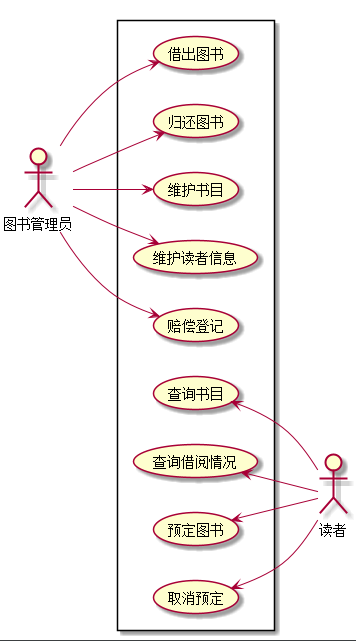
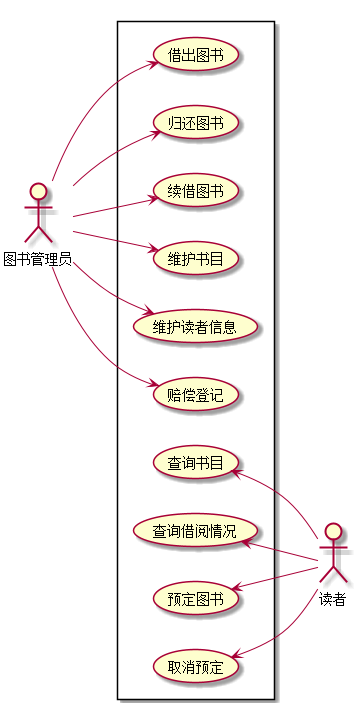
实验二

diff --git a/test2/续借图书.md b/test2/续借图书.md
@@ -1,0 +1,56 @@
+# 续借图书用例表 |[返回](./README.md)
+
+<table>
+<caption>续借图书用例规约</caption>
+<tr>
+    <td>用例名称</td><td>续借图书</td>
+</tr>
+<tr>
+    <td>参与者</td><td>图书管理员（主要参与者）、读者（次要参与者）</td>
+</tr>
+<tr>
+    <td>前置条件</td><td>图书管理员已被授权并已登录系统</td>
+</tr>
+<tr>
+    <td>后置条件</td><td>更新读者借书纪录</td>
+</tr>
+<tr>
+    <td colspan="2">主事件流</td>
+</tr>
+<tr>
+    <td>参与者动作</td>
+    <td>系统行为</td>
+</tr>
+<tr>
+    <td>
+        1.图书管理员将读者借书卡提供给系统<br><br>
+        3.图书管理员将读者续借图书输入系统
+    </td>
+    <td><br>
+        2.系统验证读者身份和借书条件<br><br>
+        4.系统更新借书信息<br>
+        5.重复3~4，直到图书管理员确认全部图书登记完毕<br>
+        6.系统打印续借清单，交易成功完成
+    </td>
+</tr>
+<tr>
+    <td colspan="2">备选时间流</td>
+</tr>
+<tr>
+<td colspan="2">
+    2a.非法读者<br>
+    &nbsp;&nbsp;&nbsp;&nbsp;1.系统提示错误并拒绝接受输入<br>
+    2b.读者续借次数已达限额<br>
+    &nbsp;&nbsp;&nbsp;&nbsp;1.系统提示错误并拒绝接受输入<br>
+</td>
+</tr>
+<tr>
+    <td colspan="2">业务规则</td>
+</tr>
+<tr>
+    <td colspan="2">
+        1.图书管理员必须在系统中存在信息
+        2.图书在书库中存在
+    </td>
+</tr>
+</table>

diff --git a/test2/README.md b/test2/README.md
@@ -10,6 +10,7 @@ left to right direction
 rectangle {
   Admin --> (借出图书)
   Admin --> (归还图书)
+  Admin --> (续借图书)
   Admin --> (维护书目)
   Admin --> (维护读者信息)
   Admin --> (赔偿登记)
@@ -27,9 +28,11 @@ rectangle {
 
 ### 1.借出图书用例表 | [前往](./借出图书.md)
 ### 2.归还图书用例表 | [前往](./归还图书.md)
-### 3.维护书目用例表 | [前往](./维护书目.md)
-### 4.维护读者信息用例表 | [前往](./维护读者信息.md)
-### 5.查询书目用例表 | [前往](./查询书目.md)
-### 6.查询借阅情况用例表 | [前往](./查询借阅情况.md)
-### 7.预定图书用例表 | [前往](./预定图书.md)
-### 8.取消预定用例表 | [前往](./取消预定.md)
+### 3.续借图书用例表 | [前往](./续借图书.md)
+### 4.维护书目用例表 | [前往](./维护书目.md)
+### 5.维护读者信息用例表 | [前往](./维护读者信息.md)
+### 6.维护读者信息用例表 | [前往](./赔偿登记.md)
+### 7.查询书目用例表 | [前往](./查询书目.md)
+### 8.查询借阅情况用例表 | [前往](./查询借阅情况.md)
+### 9.预定图书用例表 | [前往](./预定图书.md)
+### 10.取消预定用例表 | [前往](./取消预定.md)
